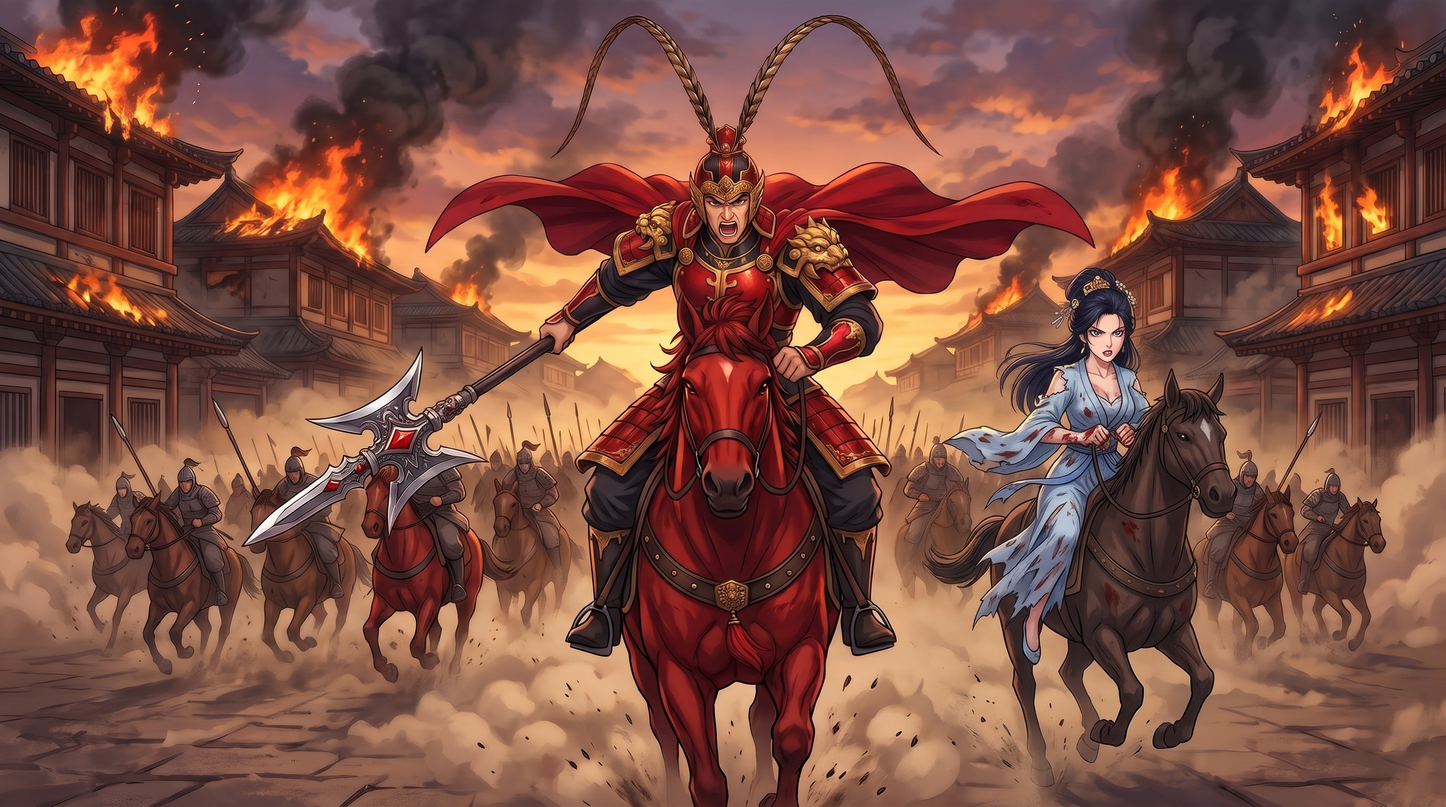
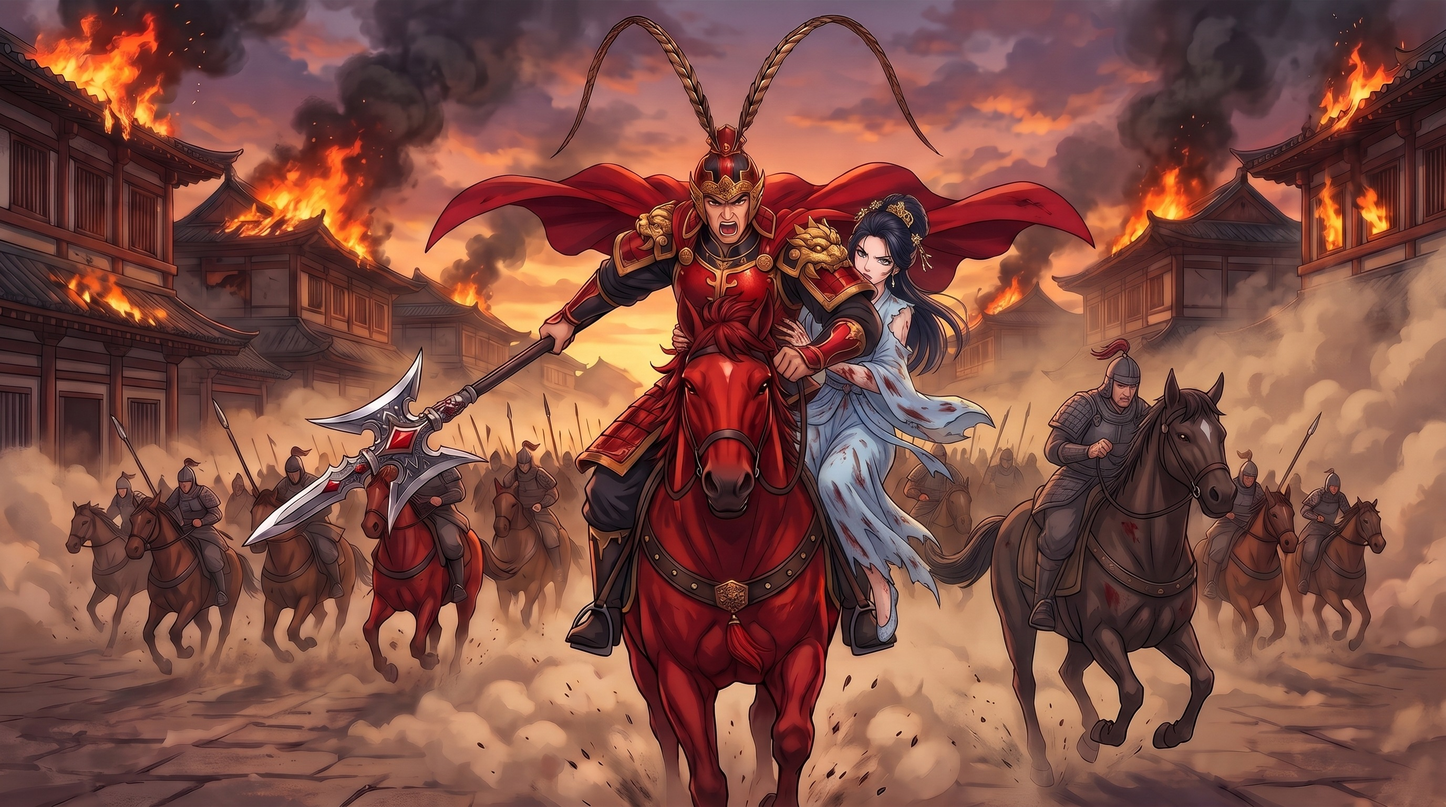
art: c5_rescue 貂蝉改为同骑赤兔坐在吕布身后
Claude-Session: https://claude.ai/code/session_016SRjkfRmEpQgJPrbsiBEnx

diff --git a/docs/chapters/03-南线-传国玉玺.md b/docs/chapters/03-南线-传国玉玺.md
@@ -1856,7 +1856,7 @@
   - 提示：大婚陷阱：董卓举杯冷笑，大门紧闭飞熊军四起；董白扯下盖头愣住，主角把她拉到身后拔出孙坚的旧刀
   - 参考立绘：主角 → `pics/source/generals/lord.jpg`；飞熊军 → `pics/source/soldiers/feixiong_bing.jpg`；董卓 → `pics/source/generals/dongzhuo.jpg`；孙坚 → `pics/source/generals/sunjian.jpg`；董白 → `pics/source/generals/dongbai.jpg`
 - `c5_rescue` ✅ 已有
-  - 提示：吕布来援：黄昏起火的长安长街，吕布（红金甲、雉鸡翎、红披风）骑赤兔持方天画戟朝画面冲锋怒吼，貂蝉（淡蓝汉服撕破、手上带血）骑马紧跟在他右后方，身后上千并州骑兵；画面只有吕布、貂蝉和他的兵
+  - 提示：吕布来援：黄昏起火的长安长街，吕布（红金甲、雉鸡翎、红披风）骑赤兔持方天画戟朝画面冲锋怒吼，貂蝉（淡蓝汉服撕破、手上带血）同骑赤兔、侧坐在他身后搂着他的腰，身后上千并州骑兵；画面只有吕布、貂蝉和他的兵
   - 参考立绘：貂蝉 → `pics/source/generals/diaochan.jpg`；吕布 → `pics/source/generals/lvbu.jpg`
 - `c5_death` ✅ 已有
   - 提示：求情：打败的董卓瘫在宫阶上，穿嫁衣的董白张开双臂扑在他身前，满脸泪水地求你别杀；主角的刀停在半空；主角身后吕布骑赤兔举着戟，貂蝉在他身边

diff --git a/pics/ART-LOG.md b/pics/ART-LOG.md
@@ -1599,3 +1599,4 @@
 - [ ] 2026-11-10 cg `c5_feast` ← c5_feast_v2.jpg · ok
 - [ ] 2026-11-10 battle `c5_niufu` ← c5_niufu_v1.jpg · ok
 - [ ] 2026-11-10 cg `c5_rescue` ← c5_rescue_v2.jpg · ok
+- [ ] 2026-11-10 cg `c5_rescue` ← c5_rescue_v3.jpg · ok
